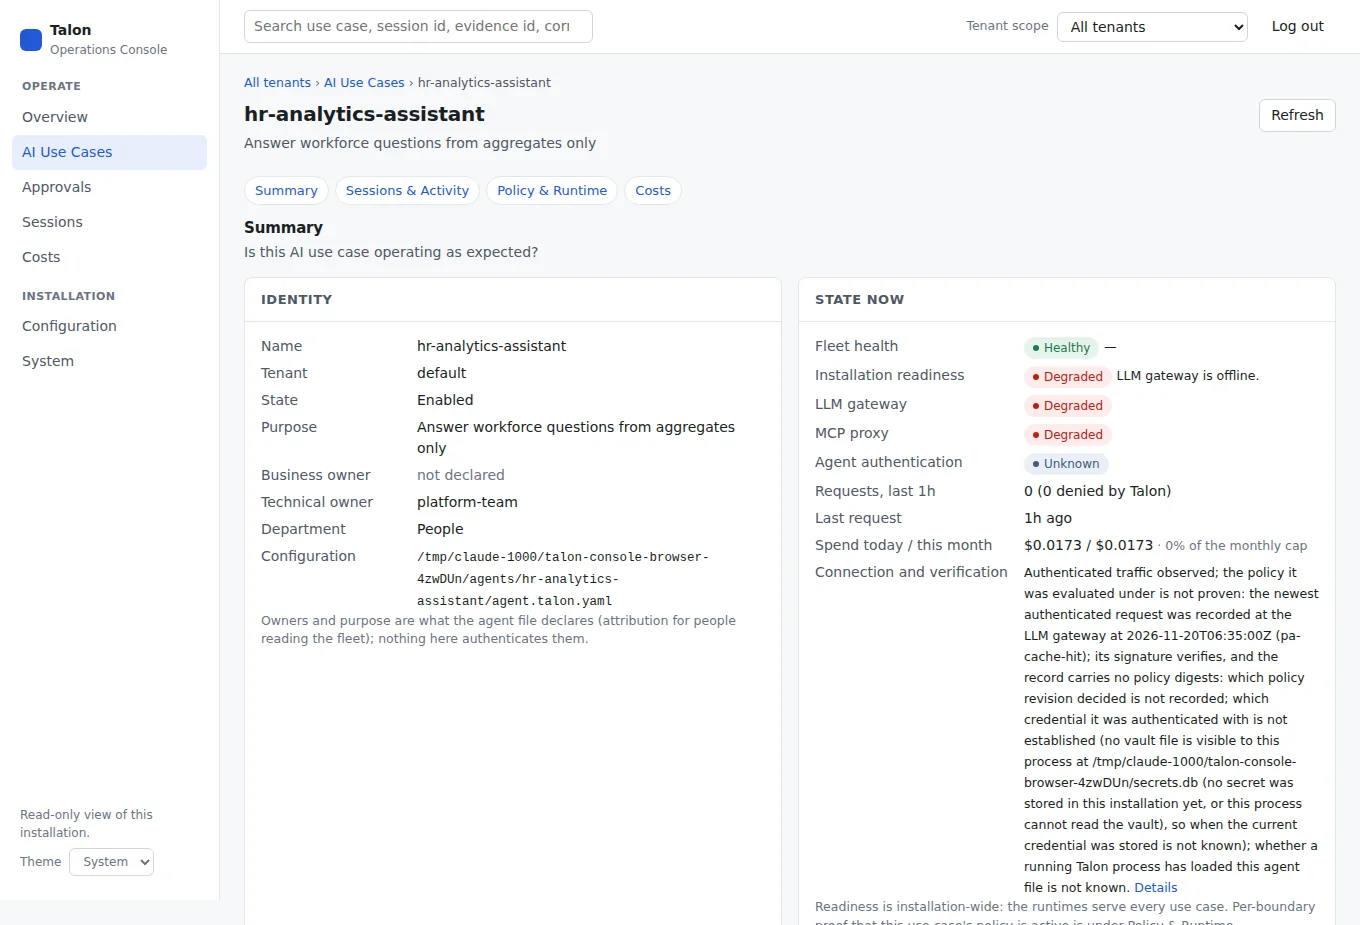
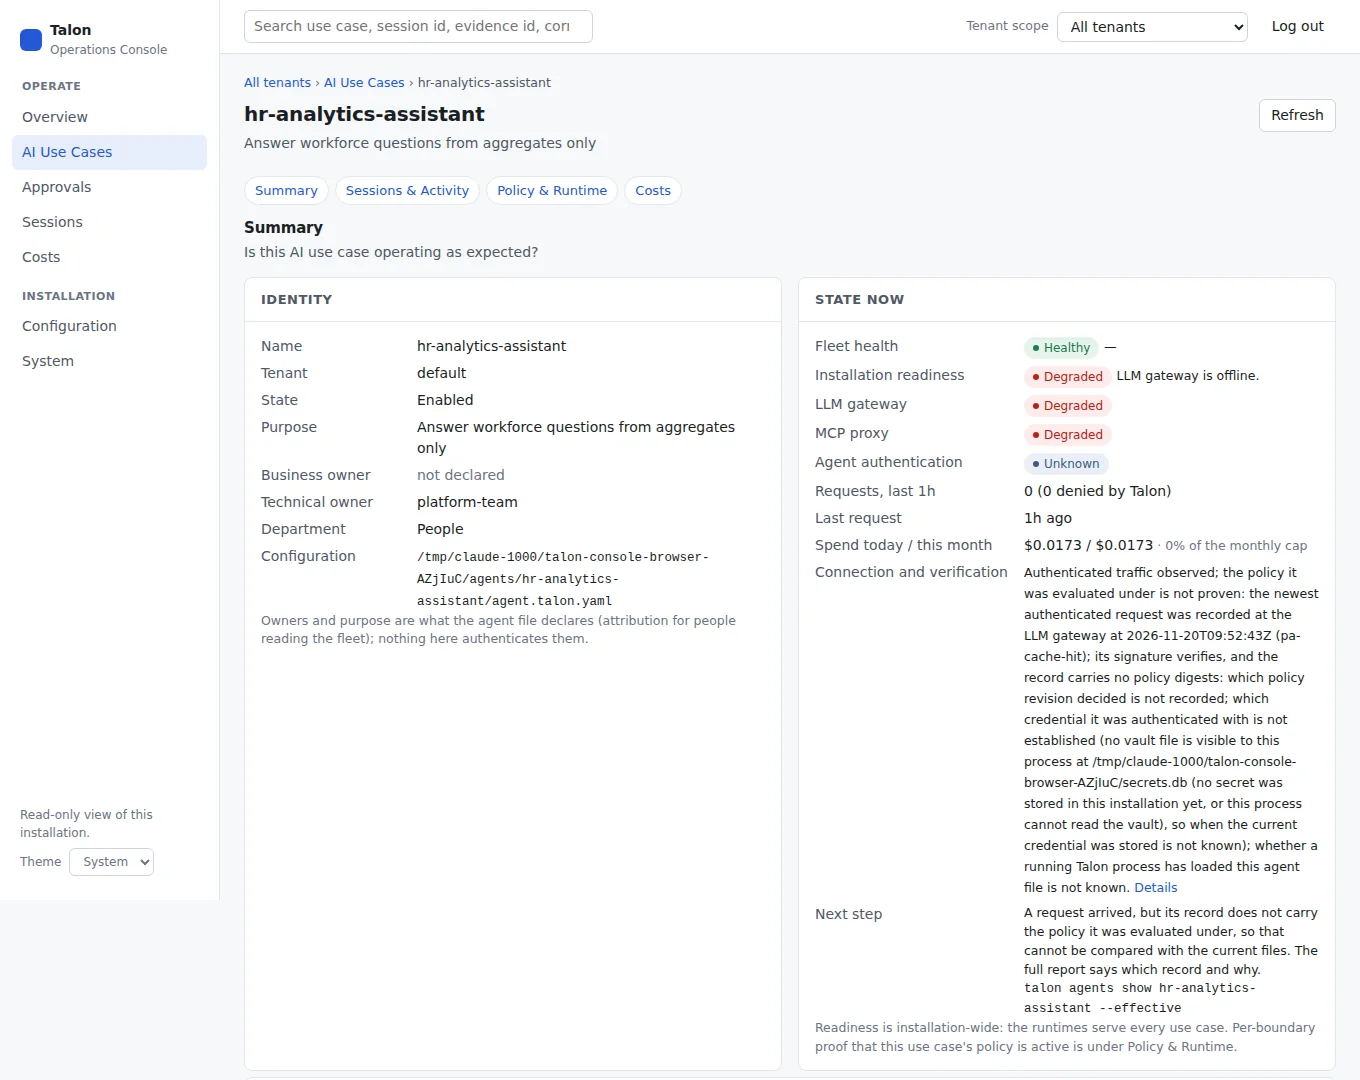
docs(console): the use-case screenshot shows the whole Summary card with the next step; baseline for the changed render inputs (#567)
The render inputs changed (internal/effective, internal/cmd/agents*, the
console bundle). A fresh capture of all 14 curated images was compared with
the committed ones: 13 show the same content (mean absolute RGB difference
at most 0.33 of 255, from clocks, ids and sub-pixel offsets) and are left
as they are. The use case's Summary now carries a "Next step" row, so that
image is replaced and its crop extended to the end of the card.

diff --git a/scripts/generate-console-visuals.py b/scripts/generate-console-visuals.py
@@ -15,7 +15,8 @@ OUT.mkdir(parents=True, exist_ok=True)
 # Meaningful, full-width above-the-fold crops; preserve original UI pixels.
 SHOTS = {
     'overview-attention': ('light-13-overview-case-g.png', 0, 800),
-    'use-case-summary': ('light-03-use-case.png', 0, 925),
+    # Through the end of the Summary card, so the next step is in the image.
+    'use-case-summary': ('light-03-use-case.png', 0, 1080),
     'session-investigation': ('light-18-session-proof.png', 0, 1120),
     'evidence-verification': ('light-16-evidence-export-denied.png', 0, 1180),
     'costs': ('light-17-costs-all-tenants.png', 0, 750),
